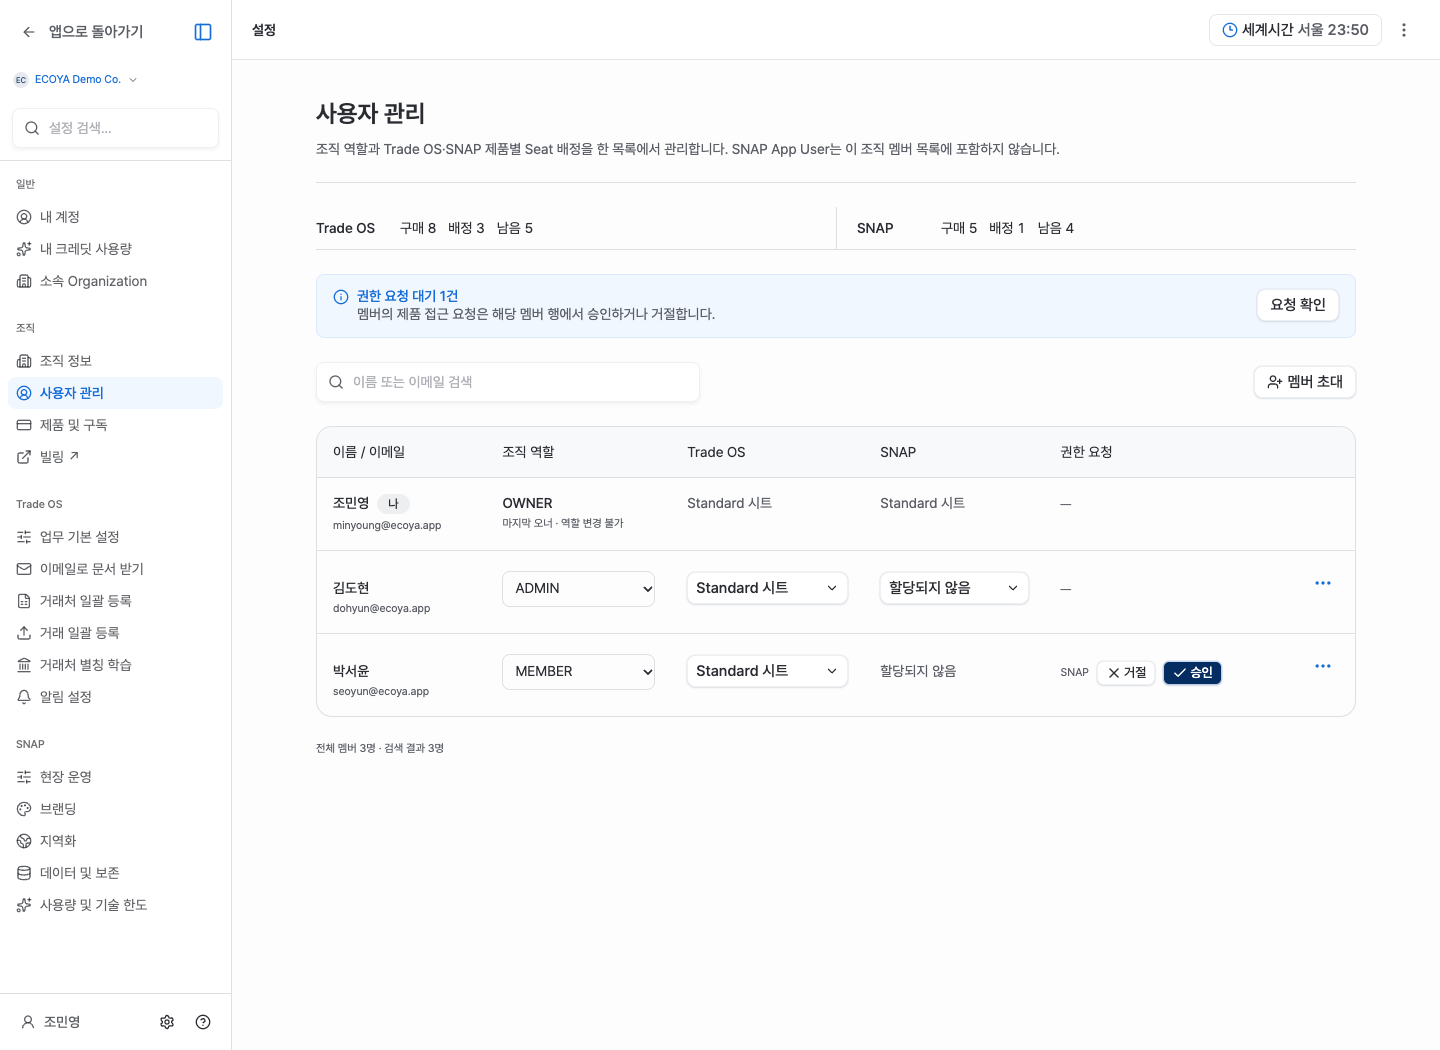
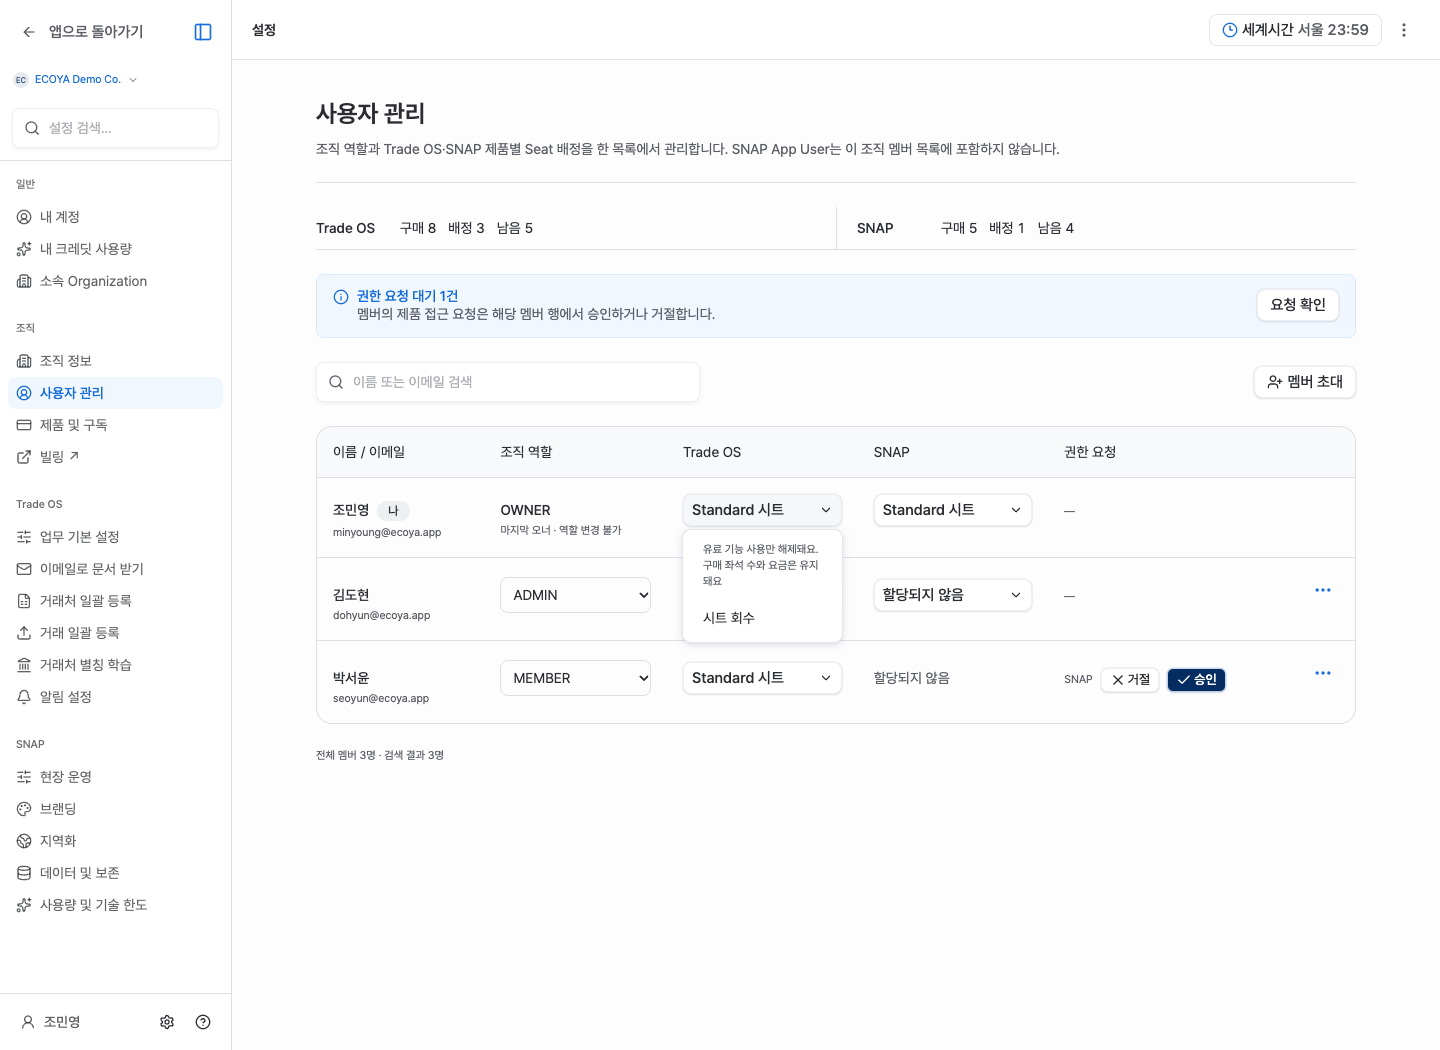
fix: allow owners and admins to change their own product seats (#58)

diff --git a/tests/settings-contract.spec.ts b/tests/settings-contract.spec.ts
@@ -197,7 +197,7 @@ test("last owner has a fixed role without alternative options and only owner see
   }
 })
 
-test("admin can assign own and member seats, cannot revoke own seat or edit roles, and reads invoices", async ({
+test("admin can change own and member seats without editing roles and reads invoices", async ({
   page,
 }) => {
   await openSettings(page, "admin")
@@ -214,9 +214,12 @@ test("admin can assign own and member seats, cannot revoke own seat or edit role
     .getByRole("menuitem", { name: "Standard 시트 배정", exact: true })
     .click()
   await seatCounts(page, "SNAP", 5, 2, 3)
-  await expect(
-    page.getByRole("button", { name: "김도현 SNAP", exact: true })
-  ).toHaveCount(0)
+  await page.getByRole("button", { name: "김도현 SNAP", exact: true }).click()
+  await page.getByRole("menuitem", { name: "시트 회수", exact: true }).click()
+  await seatCounts(page, "SNAP", 5, 1, 4)
+  await expect(page.getByLabel("김도현 역할", { exact: true })).toHaveText("ADMIN")
+  await page.getByRole("button", { name: "김도현 SNAP", exact: true }).click()
+  await page.getByRole("menuitem", { name: "Standard 시트 배정", exact: true }).click()
   await memberRow(page, "박서윤")
     .getByRole("button", { name: "승인", exact: true })
     .click()
@@ -230,6 +233,26 @@ test("admin can assign own and member seats, cannot revoke own seat or edit role
     page.getByRole("button", { name: "요금제 변경", exact: true })
   ).toHaveCount(0)
   await seatCounts(page, "SNAP", 5, 3, 2)
+})
+
+test("last owner can release and reassign own product seats while keeping role and billing access", async ({ page }) => {
+  await openSettings(page, "owner")
+  const owner = memberRow(page, "조민영")
+  for (const [product, total, assigned] of [["Trade OS", 8, 3], ["SNAP", 5, 1]] as const) {
+    await owner.getByRole("button", { name: `조민영 ${product}`, exact: true }).click()
+    await page.getByRole("menuitem", { name: "시트 회수", exact: true }).click()
+    await expect(owner.getByRole("button", { name: `조민영 ${product}`, exact: true })).toHaveText("할당되지 않음")
+    await seatCounts(page, product, total, assigned - 1, total - assigned + 1)
+  }
+  await expect(owner.getByLabel("조민영 역할", { exact: true })).toHaveText("OWNER")
+  await expect(owner.getByRole("combobox")).toHaveCount(0)
+  await expect(owner.getByRole("button", { name: "조민영 더보기" })).toHaveCount(0)
+  await expect(page.getByRole("button", { name: "빌링 (새 탭에서 열림)", exact: true })).toBeVisible()
+  for (const [product, total, assigned] of [["Trade OS", 8, 3], ["SNAP", 5, 1]] as const) {
+    await owner.getByRole("button", { name: `조민영 ${product}`, exact: true }).click()
+    await page.getByRole("menuitem", { name: "Standard 시트 배정", exact: true }).click()
+    await seatCounts(page, product, total, assigned, total - assigned)
+  }
 })
 
 test("member cannot enter user management or see invoices and can cancel own access request", async ({

diff --git a/share/settings/subscription-settings.tsx b/share/settings/subscription-settings.tsx
@@ -260,7 +260,6 @@ export function OrganizationMembers({
     enabled: boolean
   ) => {
     if (!canAssignSeat(member)) return
-    if (!enabled && member.id === role) return
     if (member[product] === enabled) return
     if (
       enabled &&
@@ -574,8 +573,7 @@ export function OrganizationMembers({
                       <span className="text-sm text-muted-foreground">
                         {member[product] ? "Standard 시트" : "할당되지 않음"}
                       </span>
-                    ) : !canAssignSeat(member) ||
-                      (member.id === role && member[product]) ? (
+                    ) : !canAssignSeat(member) ? (
                       <span className="text-sm text-muted-foreground">
                         {member[product] ? "Standard 시트" : "할당되지 않음"}
                       </span>
